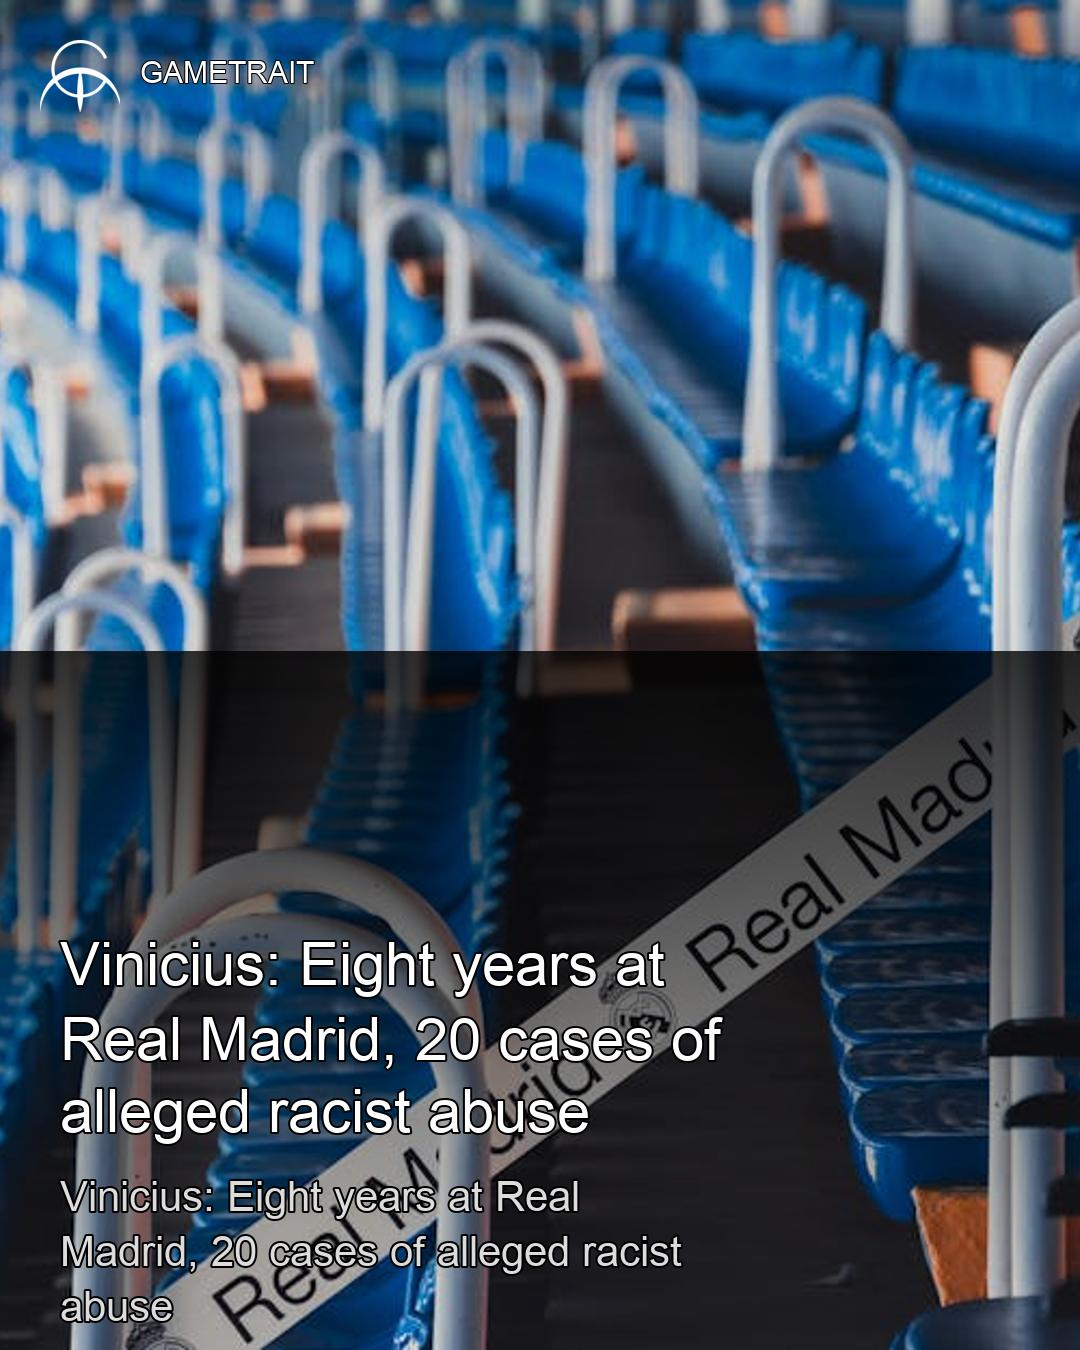
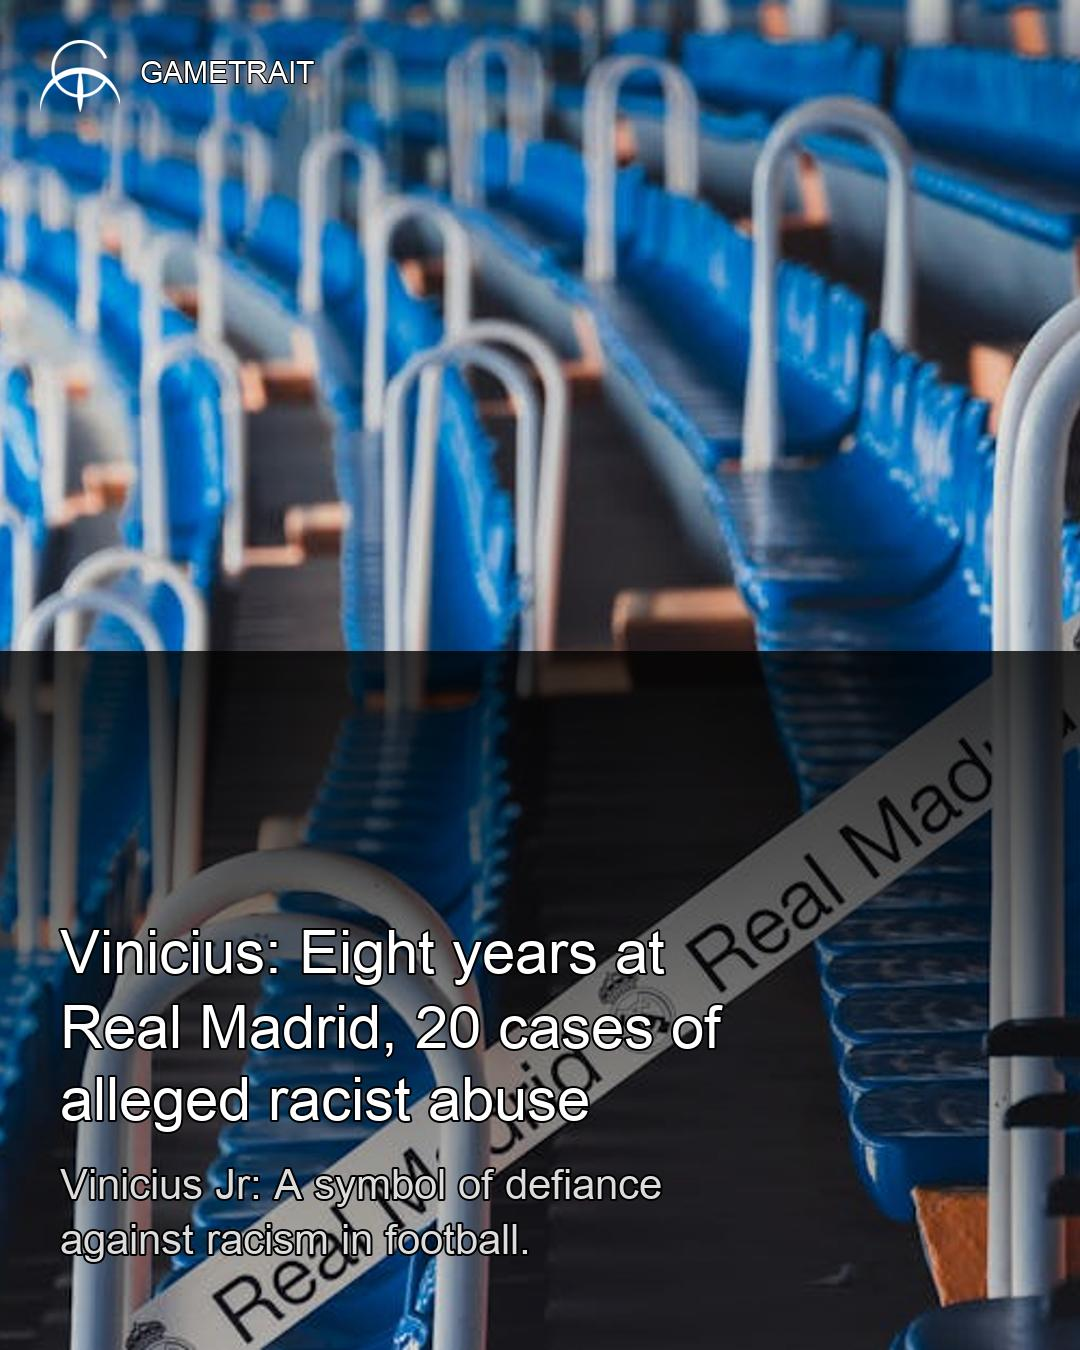
we have articles

Changed region(s): [[0.0306, 0.6844, 0.6722, 0.9956]]

diff --git a/create_post.py b/create_post.py
@@ -5,15 +5,12 @@ from io import BytesIO
 from PIL import Image, ImageDraw, ImageFont
 
 WIDTH = 1080
-HEIGHT = 1350  # Instagram 4:5
+HEIGHT = 1350
 
 LOGO_PATH = "assets/logo.png"
 FONT_PATH = "Arial.ttf"
 
 
-# -----------------------------
-# LOAD IMAGE
-# -----------------------------
 def load_image(source):
     try:
         if source.startswith("http"):
@@ -25,9 +22,6 @@ def load_image(source):
         return Image.new("RGB", (WIDTH, HEIGHT), (20, 20, 20))
 
 
-# -----------------------------
-# RESIZE COVER
-# -----------------------------
 def resize_cover(img):
     img_ratio = img.width / img.height
     target_ratio = WIDTH / HEIGHT
@@ -47,9 +41,6 @@ def resize_cover(img):
     return img.crop((left, top, left + WIDTH, top + HEIGHT))
 
 
-# -----------------------------
-# GRADIENT
-# -----------------------------
 def add_gradient(img):
     overlay = Image.new("RGBA", img.size, (0, 0, 0, 0))
     draw = ImageDraw.Draw(overlay)
@@ -64,9 +55,6 @@ def add_gradient(img):
     return Image.alpha_composite(img.convert("RGBA"), overlay)
 
 
-# -----------------------------
-# TEXT DRAW
-# -----------------------------
 def draw_text(draw, text, font, x, y, width, color):
     lines = textwrap.wrap(text, width=width)
 
@@ -85,8 +73,16 @@ def draw_text(draw, text, font, x, y, width, color):
 
 
 # -----------------------------
-# MAIN
+# MEASURE TEXT HEIGHT
 # -----------------------------
+def get_text_height(text, font, width):
+    lines = textwrap.wrap(text, width=width)
+    height = 0
+    for line in lines:
+        height += font.getbbox(line)[3] + 8
+    return height
+
+
 def create_post(image_source, title, overlay_text, output_path="preview.png"):
 
     img = load_image(image_source)
@@ -95,7 +91,6 @@ def create_post(image_source, title, overlay_text, output_path="preview.png"):
 
     draw = ImageDraw.Draw(img)
 
-    # FONTS
     try:
         title_font = ImageFont.truetype(FONT_PATH, 60)
         caption_font = ImageFont.truetype(FONT_PATH, 42)
@@ -106,42 +101,43 @@ def create_post(image_source, title, overlay_text, output_path="preview.png"):
         brand_font = ImageFont.load_default()
 
     # -----------------------------
-    # BRANDING (TOP LEFT)
+    # LOGO
     # -----------------------------
     try:
         if os.path.exists(LOGO_PATH):
             logo = Image.open(LOGO_PATH).convert("RGBA")
             logo.thumbnail((80, 80))
-
             img.paste(logo, (40, 40), logo)
 
             draw.text(
                 (140, 55),
                 "GAMETRAIT",
                 font=brand_font,
-                fill=(255, 255, 255),
+                fill=(255,255,255),
                 stroke_width=1,
-                stroke_fill=(0, 0, 0),
+                stroke_fill=(0,0,0)
             )
-        else:
-            draw.text((40, 50), "GAMETRAIT", font=brand_font, fill=(255, 255, 255))
-    except Exception as e:
-        print("Logo error:", e)
+    except:
+        pass
 
     # -----------------------------
-    # TITLE
-    # -----------------------------
-    y = HEIGHT - 420
-    y = draw_text(draw, title, title_font, 60, y, 28, (255, 255, 255))
-
-    # -----------------------------
-    # OVERLAY CAPTION
+    # DYNAMIC TEXT POSITIONING
     # -----------------------------
     overlay_text = overlay_text[:180]
 
-    draw_text(draw, overlay_text, caption_font, 60, y + 20, 34, (220, 220, 220))
+    title_h = get_text_height(title, title_font, 28)
+    caption_h = get_text_height(overlay_text, caption_font, 34)
 
-    # SAVE
+    total_h = title_h + caption_h + 40
+
+    y_start = HEIGHT - total_h - 60
+
+    y = y_start
+
+    y = draw_text(draw, title, title_font, 60, y, 28, (255,255,255))
+
+    draw_text(draw, overlay_text, caption_font, 60, y + 20, 34, (220,220,220))
+
     img = img.convert("RGB")
     img.save(output_path)
 

diff --git a/push_to_sheet.py b/push_to_sheet.py
@@ -9,21 +9,19 @@ WORKSHEET_NAME = "Sheet1"
 
 
 def get_creds(scope):
-    # LOCAL RUN
+    # LOCAL
     if os.path.exists("credentials.json"):
-        print("Using local credentials.json")
         return ServiceAccountCredentials.from_json_keyfile_name(
             "credentials.json", scope
         )
 
     # STREAMLIT CLOUD
     if "gcp_service_account" in st.secrets:
-        print("Using Streamlit secrets")
         return ServiceAccountCredentials.from_json_keyfile_dict(
             st.secrets["gcp_service_account"], scope
         )
 
-    raise Exception("No credentials found. Add credentials.json or Streamlit secrets.")
+    raise Exception("No credentials found")
 
 
 def get_sheet():
@@ -33,24 +31,26 @@ def get_sheet():
     ]
 
     creds = get_creds(scope)
-
     client = gspread.authorize(creds)
+    return client.open_by_key(SPREADSHEET_ID).worksheet(WORKSHEET_NAME)
 
-    spreadsheet = client.open_by_key(SPREADSHEET_ID)
 
-    return spreadsheet.worksheet(WORKSHEET_NAME)
 def push_if_new(row):
     try:
         sheet = get_sheet()
 
         # -----------------------------
-        # DUPLICATE CHECK
+        # DEDUPE (FIXED)
         # -----------------------------
-        titles = sheet.col_values(3)
+        existing = sheet.get_all_records()
 
-        if row.get("Title") in titles:
-            print("SKIP:", row.get("Title")[:60])
-            return False
+        for r in existing:
+            if (
+                r.get("Title") == row.get("Title")
+                and r.get("Type") == row.get("Type")
+            ):
+                print("SKIP:", row.get("Title")[:60], row.get("Type"))
+                return False
 
         # -----------------------------
         # BUILD ROW
@@ -61,7 +61,7 @@ def push_if_new(row):
             row.get("Title", ""),
             row.get("Short Caption", ""),
             row.get("Long Caption", ""),
-            row.get("Article", ""),
+            row.get("Article", ""),      # COLUMN 6 (FIXED)
             row.get("Image URL", ""),
             row.get("Status", "PENDING"),
             row.get("Context", ""),
@@ -69,7 +69,7 @@ def push_if_new(row):
             row.get("Date", int(time.time()))
         ]
 
-        print("ADDING:", row.get("Title")[:60])
+        print("ADDING:", row.get("Title")[:60], row.get("Type"))
 
         sheet.append_row(values, table_range="A1:K1")
 

diff --git a/generate_caption.py b/generate_caption.py
@@ -8,9 +8,6 @@ load_dotenv()
 client = OpenAI(api_key=os.getenv("OPENAI_API_KEY"))
 
 
-# -----------------------------
-# MAIN GENERATION FUNCTION
-# -----------------------------
 def generate_content(title, summary, category="football", context="general"):
 
     prompt = f"""
@@ -44,7 +41,7 @@ If preview:
 - Mention tactical edge
 
 If news:
-- Focus on implications, not repetition
+- Focus on implications
 """
 
     try:
@@ -62,7 +59,7 @@ If news:
         overlay, short, long, article = parse(text)
 
         # -----------------------------
-        # FALLBACK SAFETY
+        # FALLBACKS (NEVER RETURN EMPTY)
         # -----------------------------
         if not overlay:
             overlay = title[:80]
@@ -81,41 +78,38 @@ If news:
     except Exception as e:
         print("OpenAI error:", e)
 
-        # HARD FALLBACK (NEVER FAIL)
-        return (
-            title[:80],
-            title,
-            summary,
-            summary
-        )
+        # HARD FALLBACK
+        return title[:80], title, summary, summary
 
 
 # -----------------------------
-# ROBUST PARSER
+# ROBUST PARSER (FIXED)
 # -----------------------------
 def parse(text):
     overlay, short, long, article = "", "", "", ""
 
     try:
+        text = text.replace("**", "")  # remove markdown
+
         lines = text.split("\n")
         current = None
 
         for line in lines:
             clean = line.strip()
 
-            if clean.startswith("OVERLAY"):
+            if clean.startswith("OVERLAY:"):
                 current = "overlay"
                 overlay = clean.replace("OVERLAY:", "").strip()
 
-            elif clean.startswith("SHORT"):
+            elif clean.startswith("SHORT:"):
                 current = "short"
                 short = clean.replace("SHORT:", "").strip()
 
-            elif clean.startswith("LONG"):
+            elif clean.startswith("LONG:"):
                 current = "long"
                 long = clean.replace("LONG:", "").strip()
 
-            elif clean.startswith("ARTICLE"):
+            elif clean.startswith("ARTICLE:"):
                 current = "article"
                 article = clean.replace("ARTICLE:", "").strip()
 

diff --git a/main.py b/main.py
@@ -58,9 +58,14 @@ def run():
 
             if not result or len(result) != 4:
                 print("Invalid AI output → fallback")
+                result = generate_content(title, summary, "football", context)
+
+            if not result or len(result) != 4:
+                print("Invalid AI output → fallback")
                 overlay, short, long, article = title[:80], title, summary, summary
             else:
                 overlay, short, long, article = result
+   
 
             # -----------------------------
             # IMAGE
